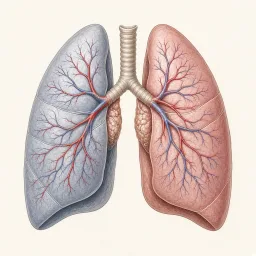
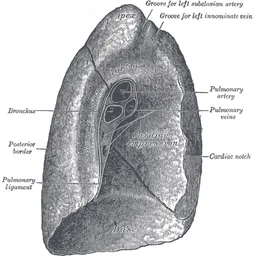
feat: replace liver and lungs glance tiles with open anatomy plates (#274)
feat(atlas): anatomography site portraits for glance

diff --git a/tests/client/atlasEntry.test.ts b/tests/client/atlasEntry.test.ts
@@ -250,6 +250,28 @@ describe("entryGlance", () => {
     expect(resolveSitePortrait("skin")?.src).toMatch(/skin\.webp$/);
   });
 
+  it("credits the open-licence liver site plate", () => {
+    expect(resolveSitePortrait("liver")).toEqual({
+      src: "/atlas/sites/liver.webp",
+      archetype: "liver",
+    });
+    const credits = readFileSync(
+      new URL("../../public/atlas/sites/CREDITS.md", import.meta.url),
+      "utf8",
+    );
+    expect(credits).toMatch(/`liver\.webp`/);
+    expect(credits).toMatch(/BodyParts3D/);
+    expect(credits).toMatch(/CC BY-SA 2\.1 JP/);
+    expect(resolveSitePortrait("lungs")?.src).toMatch(/lungs\.webp$/);
+    expect(credits).toMatch(/`lungs\.webp`/);
+    expect(credits).toMatch(/Gray973/);
+    expect(
+      existsSync(
+        new URL("../../public/atlas/sites/liver.webp", import.meta.url),
+      ),
+    ).toBe(true);
+  });
+
   it("passes PPP min/max for the glance timeline", () => {
     const ppp = glanceRows(fasciola.fields).find((r) => r.key === "pppDays");
     expect(ppp?.pppMin).toBeTypeOf("number");
